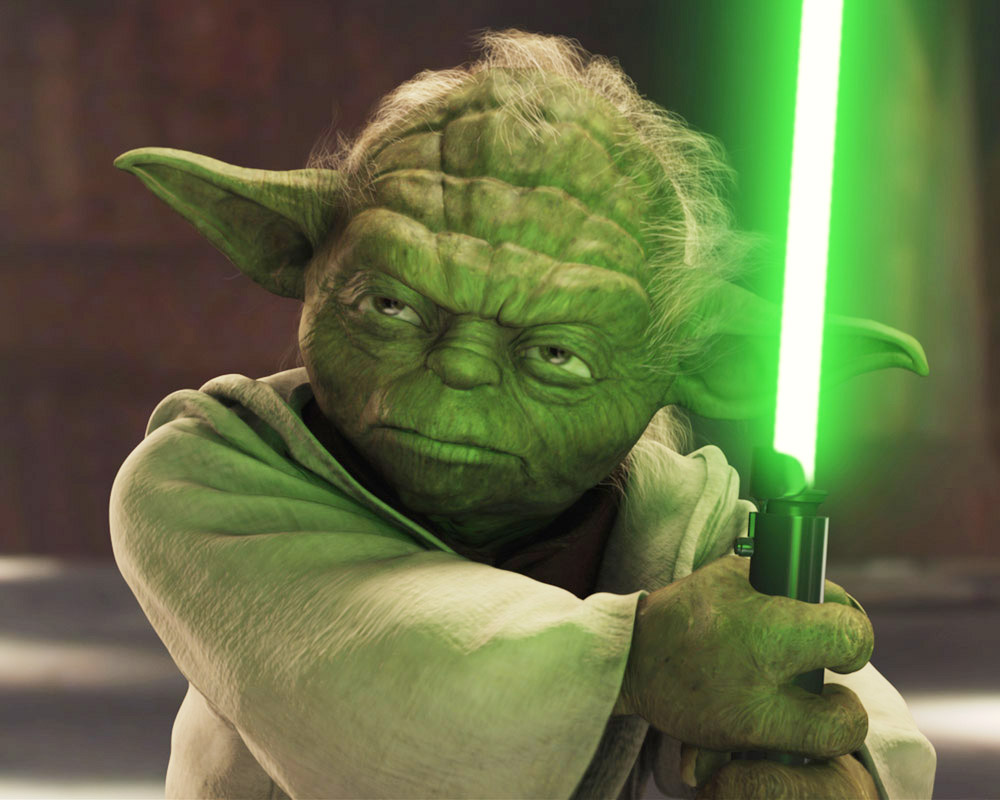
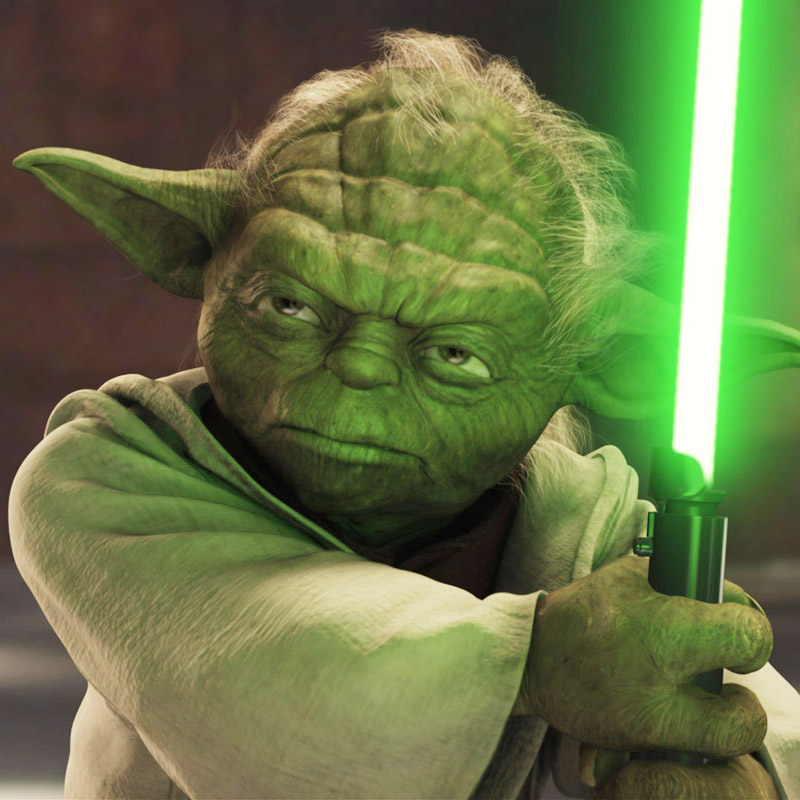
a couple pics

diff --git a/index.html b/index.html
@@ -12,7 +12,13 @@
 <body>
 
 <div id="availableCharacters">
-	Available Characters
+	Available Characters:
+
+	<img class="characterImg" src="assets/images/obiWan.png">
+	<img class="characterImg" src="assets/images/lukeSkywalker.jpg">
+	<img class="characterImg" src="assets/images/maceWindu.jpg">
+	<img class="characterImg" src="assets/images/yoda.jpg">
+
 </div>
 
 <div id="yourCharacter">

diff --git a/assets/css/style.css b/assets/css/style.css
@@ -1,0 +1,5 @@
+.characterImg 
+{
+	height:150px;
+	width:150px;
+}
